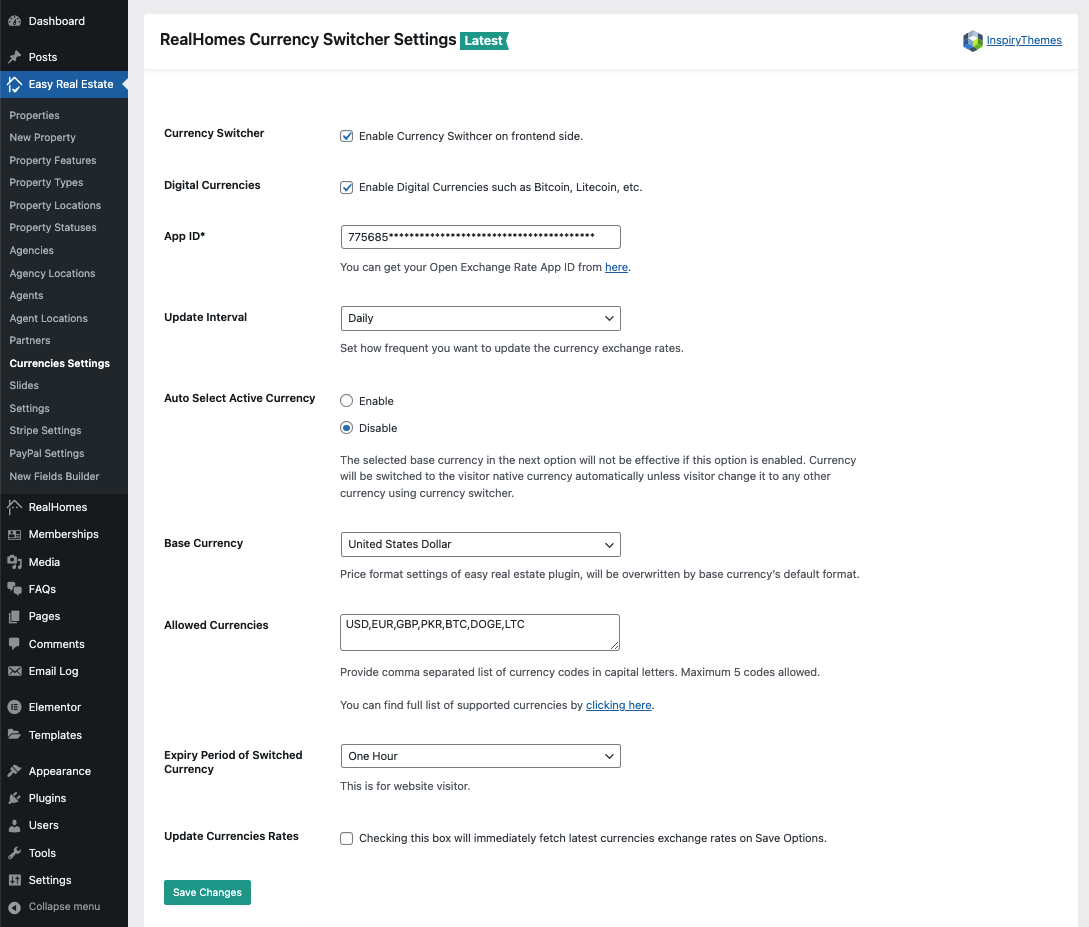
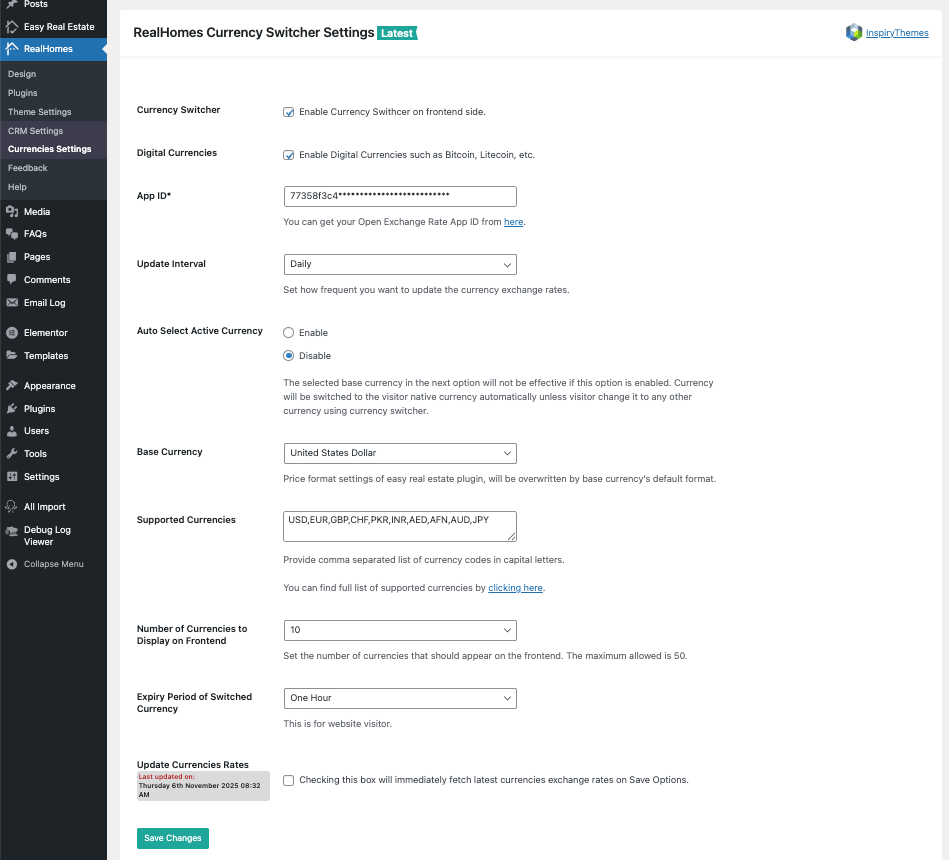
Updates for RealHomes v4.4.5

diff --git a/docs/index.md b/docs/index.md
@@ -1,6 +1,6 @@
 !!! info "Important"
 
-    This documentation was last updated on **October 14th, 2025**. The current version of RealHomes is {== **v4.4.4** ==}, so please ensure you are using the latest version to take advantage of all features and improvements.
+    This documentation was last updated on **November 8th, 2025**. The current version of RealHomes is {== **v4.4.5** ==}, so please ensure you are using the latest version to take advantage of all features and improvements.
 
 Thank you for choosing the **RealHomes Theme**! For any inquiries not covered in this documentation, you can:
 
@@ -14,23 +14,34 @@ Thank you for choosing the **RealHomes Theme**! For any inquiries not covered in
 
 ## Summary of Recent Updates
 
-This section highlights the combined updates from the two most recent releases (**v4.4.3** and **v4.4.4**). These versions introduce exciting new demos, powerful enhancements, and important fixes to make RealHomes even better.
+This section highlights the combined updates from the three most recent releases (**v4.4.3** to **v4.4.5**). These versions introduce exciting new features, major enhancements, and important fixes to make RealHomes even more powerful and flexible.
 
 ---
 
 ### ✨ New Demos
-- **MLS Demo (New!)** - [ <a href="https://demo.realhomes.io/mls" target="_blank">https://demo.realhomes.io/mls</a> ]  
+- **RealHomes CRM** - We're thrilled to introduce the RealHomes CRM in this release, a powerful all-in-one solution for managing leads, inquiries, deals, and tasks across your real estate business. <br>[**Read the CRM Setup Guide**](/realhomes-crm/)
+
+- **MLS Demo** - [ <a href="https://demo.realhomes.io/mls" target="_blank">https://demo.realhomes.io/mls</a> ]  
   Experience seamless integration with **200+ MLS service providers**, enabling you to **sync listings directly with RealHomes** for a modern, automated workflow. You can <a href="mls-on-the-fly-setup/">**click here to learn how to set it up**</a>.
 
-- **Hebrew Demo (New!)** - [ <a href="https://demo.realhomes.io/hebrew" target="_blank">https://demo.realhomes.io/hebrew</a> ]    
+- **Hebrew Demo** - [ <a href="https://demo.realhomes.io/hebrew" target="_blank">https://demo.realhomes.io/hebrew</a> ]    
   Explore the RealHomes theme in **Hebrew** with full **RTL compatibility** for a localized real estate experience.  
 
+---
+
 ### 🆕 New Features
-- **Elementor-based Contact Page Template**.
+- **RealHomes CRM functionality** – Introducing an integrated CRM system within RealHomes for managing leads, inquiries, and communications.
+- **Dual Price feature for Vacation Rental** – Display both standard and seasonal rates seamlessly.
+- **Show verified agents only** option added to Agents Elementor widgets.
+- **Control the number of currencies** displayed on the frontend.
+- **Child Properties Elementor widget** added for Ultra variation.
+- **Mega Menu support** for Modern and Ultra variations based on Elementor templates.
+- **Agent Elementor widget** styles optimized for small devices.
+- **Elementor-based Contact Page Template** for flexible, drag-and-drop customization.
 - Option to **reorder Property Meta Fields** in default templates (Ultra & Modern).
-- **Phone Number field** added to the "Schedule a Tour" form widget.
-- **Custom label control** for the Agent Contact Form title in the Single Property Agent V2 Elementor widget.
-- Local placeholder images support for properties (no dependency on external services).
+- **Phone Number field** added to the “Schedule a Tour” form widget.
+- **Custom label control** for the Agent Contact Form title in Single Property Agent V2 Elementor widget.
+- Local placeholder image support for properties (no dependency on external services).
 - Enable/disable additional property meta fields in the **print view**.
 - **Multi-select support** for Property Type and Status fields on the front-end Dashboard.
 - **Load more + infinite scroll** options for the Properties V14 widget.
@@ -38,46 +49,64 @@ This section highlights the combined updates from the two most recent releases (
 - **Owner post type verification** settings in Easy Real Estate (front-end support included).
 - Global **unit support for area and lot size** in Single Property Meta widgets v1 & v2.
 
+---
+
 ### 🛠 Fixes
-- Fixed GDPR dual border issue in the Sidebar Agent widget on Single Property pages.
-- Fixed Vacation Rental "Guests" field adding unnecessary parameters to the query string.
-- Fixed deprecated notices and Elementor condition compatibility issues.
-- Fixed header search form overlapping the user menu in Ultra design variation.
-- Fixed PHP 8.3+ notices in Sidebar Filter widget.
-- Fixed fatal error on dashboard when RHWPA was activated without WooCommerce.
-- Fixed deprecated notices for PHP 8.4 in the RealHomes Elementor Addon plugin.
+- Fixed **availability calendar visibility issue** on the Property Detail Page.
+- Fixed **layout breaking issue** when Save Search functionality is enabled.
+- Fixed **OpenStreetMap and Google Map Elementor widgets markers** issue when no property is found.
+- Fixed **search fields selection issue** when browser-based back-forward cache is enabled.
+- Fixed **Fusion Demo SVG icon size** issue.
+- Fixed **Property Taxonomy Elementor widget** styles on small devices.
+- Fixed **GDPR dual border issue** in Sidebar Agent widget.
+- Fixed **Vacation Rental “Guests” field** adding unnecessary parameters to the query string.
+- Fixed **deprecated notices** and Elementor condition compatibility warnings.
+- Fixed **header search form overlapping** the user menu in Ultra variation.
+- Fixed **PHP 8.3+ notices** in Sidebar Filter widget.
+- Fixed **fatal error** on dashboard when RHWPA was activated without WooCommerce.
+- Fixed **deprecated notices for PHP 8.4** in RealHomes Elementor Addon plugin.
+
+---
 
 ### 🚀 Improvements
-- WhatsApp link handling improved for different phone number formats.
-- Display of Phone, Fax, and Mobile numbers enhanced for various formats.
-- Agent Contact Details icons alignment improved on smaller containers.
-- Response message styling polished in the Login modal.
-- Responsive layout of the Front-end Dashboard header improved.
-- Floor plan price display function refined for flexible input handling.
-- Updated Twitter branding to **X** across the theme.
-- Meta-box styles improved for Modern homepage template slider.
-- Sticky header logo settings enhanced with retina logo support.
-- Booking form defaults to **Split booking** for better clarity.
-- Multi-select support added for **Agent field** in the front-end Dashboard.
-- Partners section styles polished for Classic variation.
-- Properties Grid v3 Elementor widget styles improved.
-- Purchase API validation improved to match ThemeForest username with Envato buyer info.
-- Update handling between theme and bundled plugins optimized for stability.
-- Update API improved for more reliable theme/plugin updates.
-- Chart.js script loads only where needed.
-- Demo imports improved, including media handling and automatic permalink setting.
-- Front-end Dashboard header improved with a **search field** for all post types.
-- RTL styles refined for Ultra variation.
-- Print styles and logic improved.
-- Ultra variation homepage performance optimized.
+- **WPML compatibility** improved across widgets and theme options.
+- **Ultra RVR demo** content refined to remove legacy Google Chart API code.
+- **Agent and Agency card layouts** improved for better title and social icon alignment in Modern variation.
+- **RealHomes Elementor Addon WPML config** updated for missing fields.
+- **Inquiry Form** enhanced with **CC and BCC email support**.
+- **Agency demo** structure optimized for faster performance.
+- **WhatsApp link handling** improved for various phone number formats.
+- **Phone, Fax, and Mobile number display** refined for consistent output.
+- **Agent contact icons alignment** enhanced on smaller containers.
+- **Response message styling** refined in Login modal.
+- **Front-end Dashboard header layout** improved for responsive behavior.
+- **Floor plan price handling** made more flexible.
+- **Twitter branding updated to X** across theme and widgets.
+- **Meta-box styles improved** for Modern homepage template slider.
+- **Sticky header logo** supports retina images.
+- **Booking form** defaults to split mode for better clarity.
+- **Multi-select support** added for the Agent field in Dashboard.
+- **Partners section styles** refined for Classic variation.
+- **Properties Grid v3 widget** visuals improved.
+- **Purchase API validation** now matches ThemeForest username with Envato buyer info.
+- **Update handling optimized** for stability between theme and bundled plugins.
+- **Update API refined** for more reliable updates.
+- **Chart.js script** loads only when required.
+- **Demo imports improved**, including media handling and permalink auto-setup.
+- **Front-end Dashboard header** now includes a unified search field.
+- **RTL styles refined** for Ultra variation.
+- **Print logic and styles improved.**
+- **Ultra variation homepage performance** further optimized.
+
+---
 
 ### 🔄 Updates
-- The **condominium demo**'s Elementor sections updated to containers.
-- **Slider Revolution** and other theme-bundled plugins updated to their latest versions.
-- Translation files for the theme and plugins have been refreshed.
-- Theme documentation updated.
+- **Condominium Demo** updated with Elementor Containers.
+- **Slider Revolution** and other bundled plugins updated to the latest versions.
+- **Translation files** refreshed for all theme and plugin components.
+- **Theme documentation** updated for RealHomes v4.4.5.
 
-👉 For a complete and detailed list of updates, please visit our [Change Log](https://realhomes.io/changelog/).
+👉 For the full version history, please visit our [Change Log](https://realhomes.io/changelog/).
 
 ---
 

diff --git a/docs/realhomes-crm.md b/docs/realhomes-crm.md
@@ -1,0 +1,121 @@
+# 🤝 How to Set Up and Use the RealHomes CRM
+
+The **RealHomes CRM** plugin brings a complete powerful all-in-one **Customer Relationship Management** solution to your website, helping you manage leads, track inquiries, and streamline your real estate communication process directly from your RealHomes Dashboard.
+
+Follow the steps below to install, configure, and start using the RealHomes Customer Relationship Management system.
+
+---
+
+## 🔌 Step 1: Install & Activate the Plugin
+
+1. Navigate to **Dashboard → RealHomes → Plugins** 
+2. Find the **RealHomes CRM** there.
+3. Click **Install** and then **Activate** the plugin
+
+![Install RealHomes CRM Plugin](images/realhomes-crm/install-realhomes-crm-plugin.png)
+
+Once activated, new CRM sections will appear. You will find **CRM Settings** under the **RealHomes** menu in your WordPress admin dashboard and a **Properties CRM** section in your frontend dashboard.
+
+---
+
+## ⚙ Step 2: Configure CRM Settings
+
+Go to **Dashboard → RealHomes → CRM Settings** to configure the plugin's core options. The settings are organized into tabs.
+
+### General Settings
+**Empty Fields Fallback Value:** Define a fallback value (like '-') to display when a field is empty.
+
+![CRM General Settings](images/realhomes-crm/crm-general-settings.png)
+
+### Leads Settings
+* **Name Prefixes:** Customize the list of titles for leads (e.g., Mr, Ms, Broker, Investor).
+* **Lead Types:** Define the different categories for your leads (e.g., Prospect, Referral, Tenant).
+* **Lead Statuses:** Set the pipeline stages for leads (e.g., New, Contacted, Qualified, Won, Lost).
+
+![CRM Leads Settings](images/realhomes-crm/crm-leads-settings.png)
+
+### Inquiries Settings
+* **Inquiry Types:** Define the types of inquiries clients can make (e.g., Purchase, Rent, Valuation, Tour).
+* **Inquiry Statuses:** Set the pipeline stages for inquiries (e.g., New, In Progress, Closed, Awaiting Response).
+
+![CRM Inquiries Settings](images/realhomes-crm/crm-inquiries-settings.png)
+
+### Deals Settings
+* **Deal Stages:** Define the main stages for a deal (e.g., In Progress, On Hold, Won, Lost).
+* **Deal Stages Colors:** Assign specific colors to each stage for quick visual identification.
+* **Deal Probabilities:** Set predefined probability percentages (e.g., 10%, 50%, 90%).
+* **Deal Last Steps:** Create a list of common "last actions" (e.g., Initial Contact, Proposal Sent).
+* **Deal Next Steps:** Create a list of common "next actions" (e.g., Schedule Meeting, Send Contract).
+
+![CRM Deals Settings](images/realhomes-crm/crm-deals-settings.png)
+
+### Tasks Settings
+* **Task Types:** Define the categories for tasks (e.g., Research, Meeting, Follow Up, Development).
+* **Task Statuses:** Set the pipeline stages for tasks (e.g., Pending, In Progress, Completed, Deferred).
+* **Task Priorities:** Customize the priority levels (e.g., Low, Medium, High, Urgent, Critical).
+
+![CRM Tasks Settings](images/realhomes-crm/crm-tasks-settings.png)
+
+---
+
+## 🧭 Step 3: Understanding the CRM Dashboard
+
+After setup, navigate to the **Properties CRM** section on your frontend dashboard to view and manage your data.
+
+### RealHomes CRM Dashboard Overview
+
+This screen provides a high-level overview, including:
+
+* **Activities:** A feed of recent actions, such as new leads.
+* **Leads Stats:** A count of leads from the last 24 Hours, Last Week, and Last Month.
+* **Deals Stats:** A summary of deals by status (In Progress, On Hold, Won, Lost, Total).
+
+![CRM Dashboard Overview](images/realhomes-crm/crm-dashboard.png)
+
+### Leads
+
+A list of all individual leads. You can manage and view **Person**, **Contacts** (Email/Phone), **Type**, **Status**, and **Source**.
+
+![CRM Leads Dashboard](images/realhomes-crm/crm-leads-dashboard.png)
+
+### Inquiries
+
+A list of all property-specific inquiries. This table includes **ID**, **Lead**, **Type**, **Status**, **Property Type**, **Beds/Baths**, **Area**, and **Price**.
+
+![CRM Inquiries Dashboard](images/realhomes-crm/crm-inquiries-dashboard.png)
+
+### Deals
+
+This is your sales pipeline. It shows a summary of deals by stage and a list including **Title**, **Lead Contact**, **Assigned Agent**, **Last Step**, **Next Step**, **Stage**, and **Probability**.
+
+![CRM Deals Dashboard](images/realhomes-crm/crm-deals-dashboard.png)
+
+### Tasks
+
+A to-do list for managing CRM-related actions. The list includes **Task**, **Description**, **Status**, **Type**, **Priority**, and **Due Date**.
+
+![CRM Tasks Dashboard](images/realhomes-crm/crm-tasks-dashboard.png)
+
+---
+
+## 🧩 Step 4: Accessing CRM from Frontend Dashboard
+
+As shown in the screenshots, the primary interface for managing leads, inquiries, deals, and tasks is the **RealHomes Frontend Dashboard**.
+
+From there, agents and users can:
+
+- View all their assigned leads
+- Track lead activity and communication
+- Update lead status (New, Contacted, Closed, etc.)
+- Add internal notes for collaboration
+
+You can also use the **+ Add New**, **Import**, and **Export** buttons available on the Leads, Inquiries, Deals, and Tasks pages to manage your data.
+
+![Frontend CRM Access](images/realhomes-crm/crm-add-new-leads.png)
+
+---
+
+## 🆘 Need Help?
+
+🙋♂ Still have questions?  
+  [Log in or register](https://support.inspirythemes.com/login-register/) on our support platform and [submit your query](https://support.inspirythemes.com/ask-question/). Our support team will be happy to help you.

diff --git a/docs/mega-menu-setup.md b/docs/mega-menu-setup.md
@@ -1,0 +1,64 @@
+# **Mega Menu Setup**
+
+This guide explains how to enable the mega menu feature, create or import a template, and assign it to a menu item. 
+
+!!! info "Prerequisite"
+    Please note: The Mega Menu feature is only available for the **Modern** and **Ultra** design variations.
+
+---
+
+### Step 1: Enable the Mega Menu Feature
+
+Before you can assign a template, you must globally enable the mega menu feature.
+
+1.  Go to **Dashboard → Appearance → Customize**.
+2.  Navigate to the **Header → Basics** section.
+3.  Find the **Mega Menu** setting and select **Enable**.
+4.  **Publish** your changes.
+
+![Enable Mega Menu feature in Customizer](images/elementor/enable-mega-menu.png)
+
+---
+
+### Step 2: Get a Mega Menu Template
+
+You must have an Elementor template saved in your library. You can either import our pre-built templates or create your own from scratch.
+
+#### Option A: Import Pre-built Templates (Recommended)
+
+1.  Locate the main theme package `**rh-main-package.zip**` and extract it.
+2.  Navigate to the `rh-main-package/Elementor Templates/19 - Mega Menus/` folder to find the template JSON files.
+    ![Location of Mega Menu JSON files](images/elementor/mega-menu-json.png)
+3.  In your WordPress dashboard, go to **Templates → Saved Templates**.
+4.  Click the **Import Templates** button at the top of the page.
+5.  Select the JSON file you want to use and click **Import Now**.
+
+The template is now in your library and ready to be assigned.
+
+#### Option B: Create Your Own Template
+
+You can design a completely custom mega menu using the Elementor editor.
+
+1.  Go to **Dashboard → Templates → Add New**.
+2.  Select a template type (e.g., **"Page"** or **"Section"**).
+3.  Give your template a descriptive name (e.g., "Custom Properties Menu").
+4.  Click **Create Template**.
+5.  Design your layout using the Elementor editor. Add columns, images, listing carousels, or any other widgets you need.
+6.  When finished, click **Publish** (or **Update**).
+
+Your new custom template is now saved in the library.
+
+---
+
+### Step 3: Assign the Template to a Menu Item
+
+Finally, assign your imported or created template to a top-level item in your navigation menu.
+
+1.  Go to **Dashboard → Appearance → Menus**.
+2.  Ensure you have the correct menu selected (e.g., "Main Menu").
+3.  Click the small arrow on a top-level menu item to expand its options.
+4.  Find the **"Select Elementor Mega Menu Template"** dropdown.
+5.  Choose the template you imported or created in Step 2.
+6.  Click **Save Menu** to apply the changes.
+
+![Assigning an Elementor template in WordPress Menus](images/elementor/assign-mega-menu-template.png)

diff --git a/docs/add-property-vr.md b/docs/add-property-vr.md
@@ -8,9 +8,26 @@ Go to **Dashboard → Easy Real Estate → New Property**
 
 ### **Add Vacation Rentals Information**
 
-If you are using the **RealHomes Vacation Rentals** plugin and have [configured](vacation-rentals-setup.md) it, you can see the **Vacation Rentals** tab at the top. There you can add pricing and other property rental information.
+If you are using the **RealHomes Vacation Rentals** plugin and have it configured, a **Vacation Rentals** tab will appear at the top of the property editing screen.
 
-![Vacations Rentals](images/add-content/add-property-vr.png)
+From this section, you can add **rental pricing**, **availability**, **seasonal rates**, **booking details**, and other relevant rental information.
+
+---
+
+### **Dual Pricing (Sale and Rent)**
+
+Starting from **RealHomes v4.4.5**, the theme supports **Dual Pricing**, allowing you to add both a **Sale Price** and a **Rent Price** for a single property.
+
+To enable this feature:
+
+1. Go to **Dashboard → Easy Real Estate → Settings → Price Format**  
+2. Enable the **Dual Property Price** option.
+
+![Enable Dual Pricing](images/add-content/enable-dual-property-price.png)
+
+Once enabled, you can add both **sale** and **rent prices** on the property edit screen.
+
+![Vacation Rentals](images/add-content/add-property-vr.png)
 
 ### **Display Booking Form Widget**
 

diff --git a/docs/currency-switcher.md b/docs/currency-switcher.md
@@ -27,8 +27,10 @@ Here, you'll find the following configuration options:
 - 🔄 **Update Interval** – Define how often exchange rates update
 - 💲 **Base Currency** – Set your website's main currency
 - 🌐 **Allowed Currencies** – Choose which currencies users can switch between
+- 💹 **Number of Currencies to Display** – Select how many currencies you would like to display
 - ⏱ **Expiry Period** – Define how long the selected currency remains active in the user's session
 - 📥 **Update Currencies Rates** – Manually fetch latest exchange rates
+
 
 > 📘 You can also view the [complete list of supported currencies](https://docs.openexchangerates.org/reference/supported-currencies?ref=realhomes) by Open Exchange Rates for reference.
 
